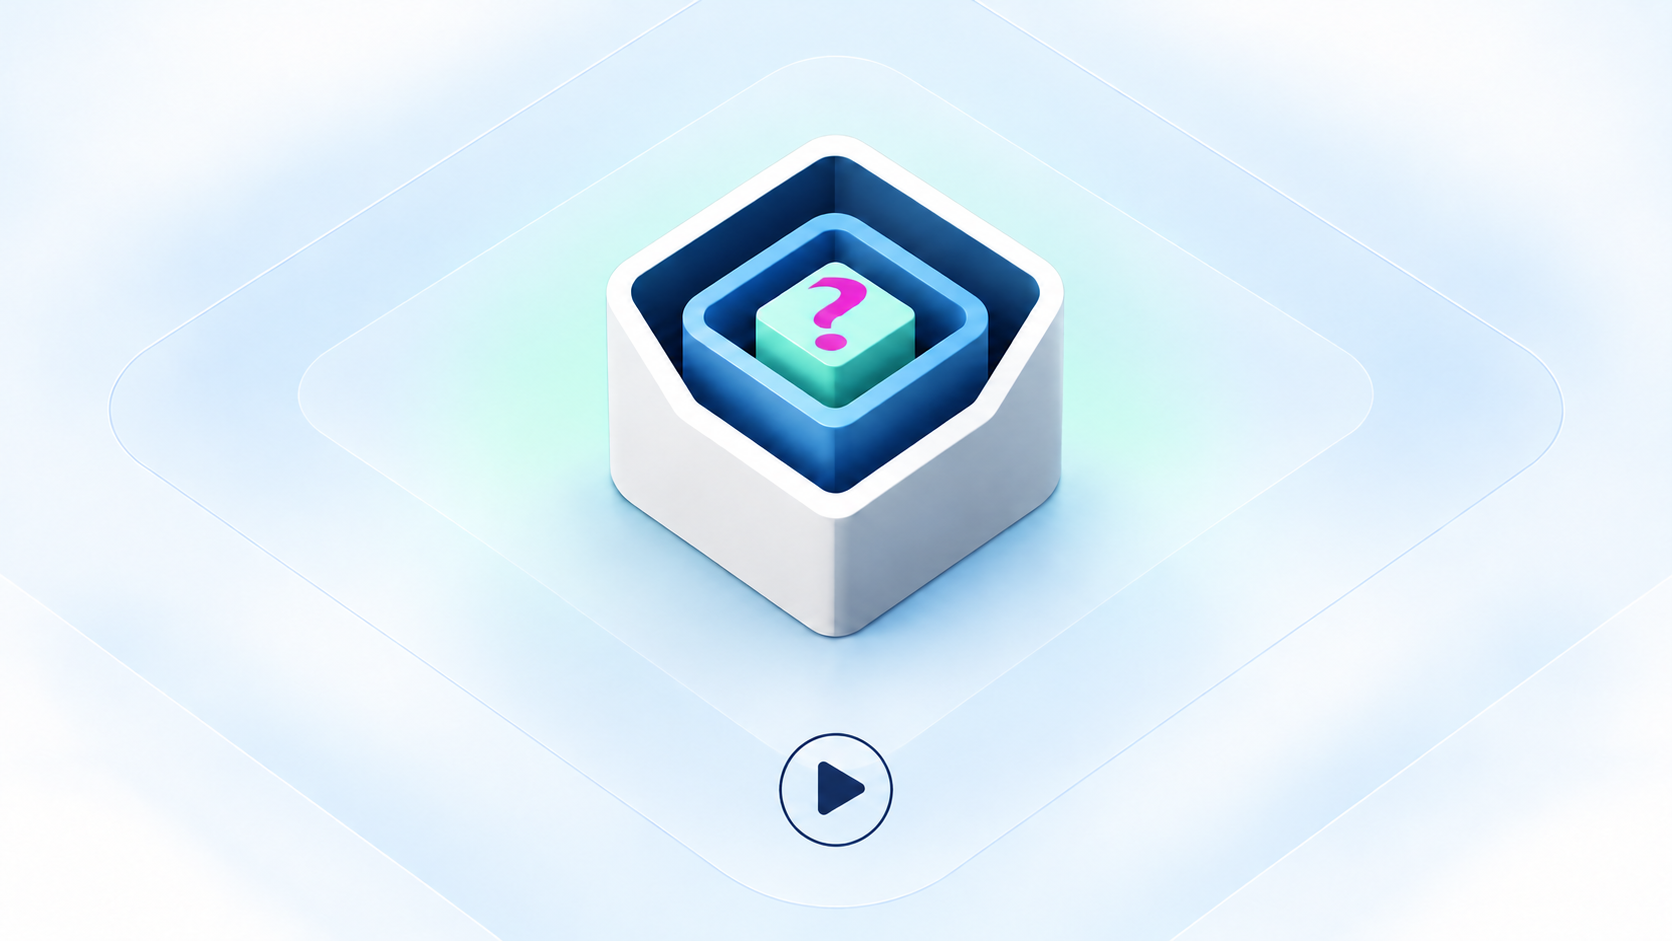
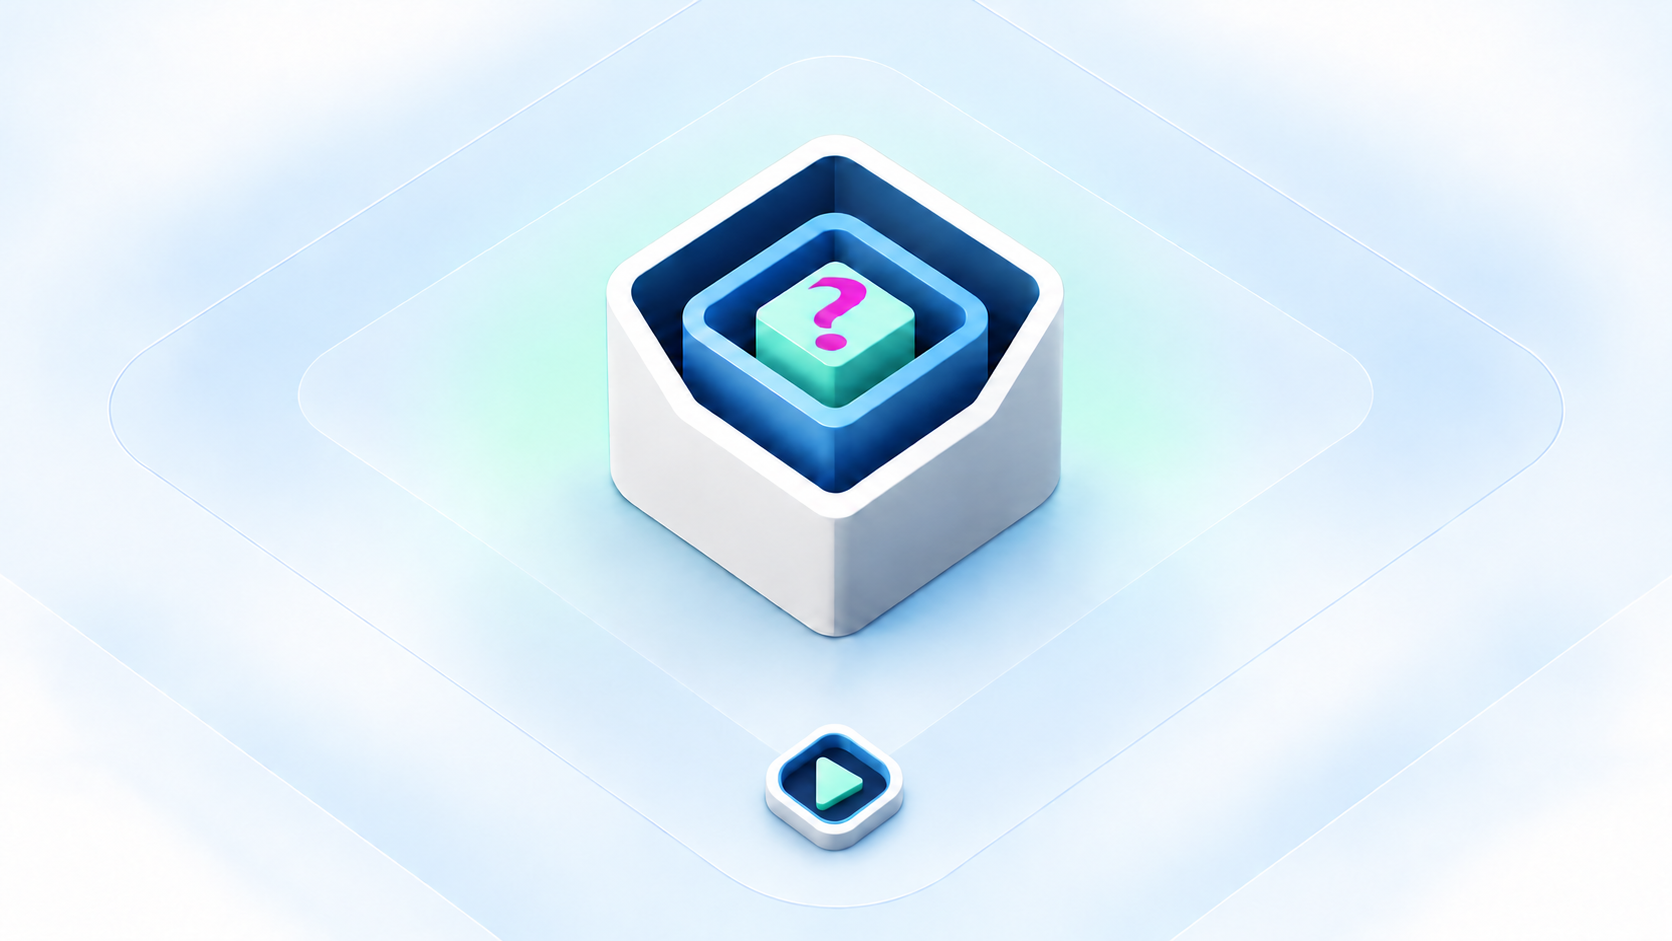
Refine demo play control and hero shadow

Changed region(s): [[0.4354, 0.7705, 0.5598, 0.9245]]

diff --git a/app.js b/app.js
@@ -66,7 +66,7 @@ function renderHome() {
             'Your browser does not support video playback.',
           '</video>',
           '<button class="demo-placeholder" type="button" aria-label="Play demo video">',
-            '<img class="demo-poster" src="demo-resting-cover.png?v=20261012-1" alt="">',
+            '<img class="demo-poster" src="demo-resting-cover.png?v=20261012-2" alt="">',
           '</button>',
           '<div class="demo-controls" hidden>',
             '<button class="demo-control-button" type="button" data-demo-action="back" aria-label="Go back 10 seconds"><svg viewBox="0 0 24 24" aria-hidden="true"><path d="m11 7-5 5 5 5M18 7l-5 5 5 5"></path></svg></button>',

diff --git a/index.html b/index.html
@@ -7,8 +7,8 @@
   <meta name="viewport" content="width=device-width,initial-scale=1,viewport-fit=cover">
   <link rel="icon" href="home_logo.png" type="image/png">
 
-  <link rel="stylesheet" href="styles.css?v=20261012-06">
-  <script src="app.js?v=20261012-03" defer></script>
+  <link rel="stylesheet" href="styles.css?v=20261012-07">
+  <script src="app.js?v=20261012-04" defer></script>
 </head>
 
 <body>

diff --git a/styles.css b/styles.css
@@ -984,7 +984,8 @@ h1 {
   max-width: none;
   padding: 0;
   border: 4px solid rgb(166, 166, 166);
-  box-shadow: 0 7px 18px rgba(3, 49, 109, 0.08);
+  box-shadow: 0 22px 52px rgba(3, 49, 109, 0.3),
+              0 0 0 1px rgba(3, 49, 109, 0.08);
 }
 
 .hero-inner {
